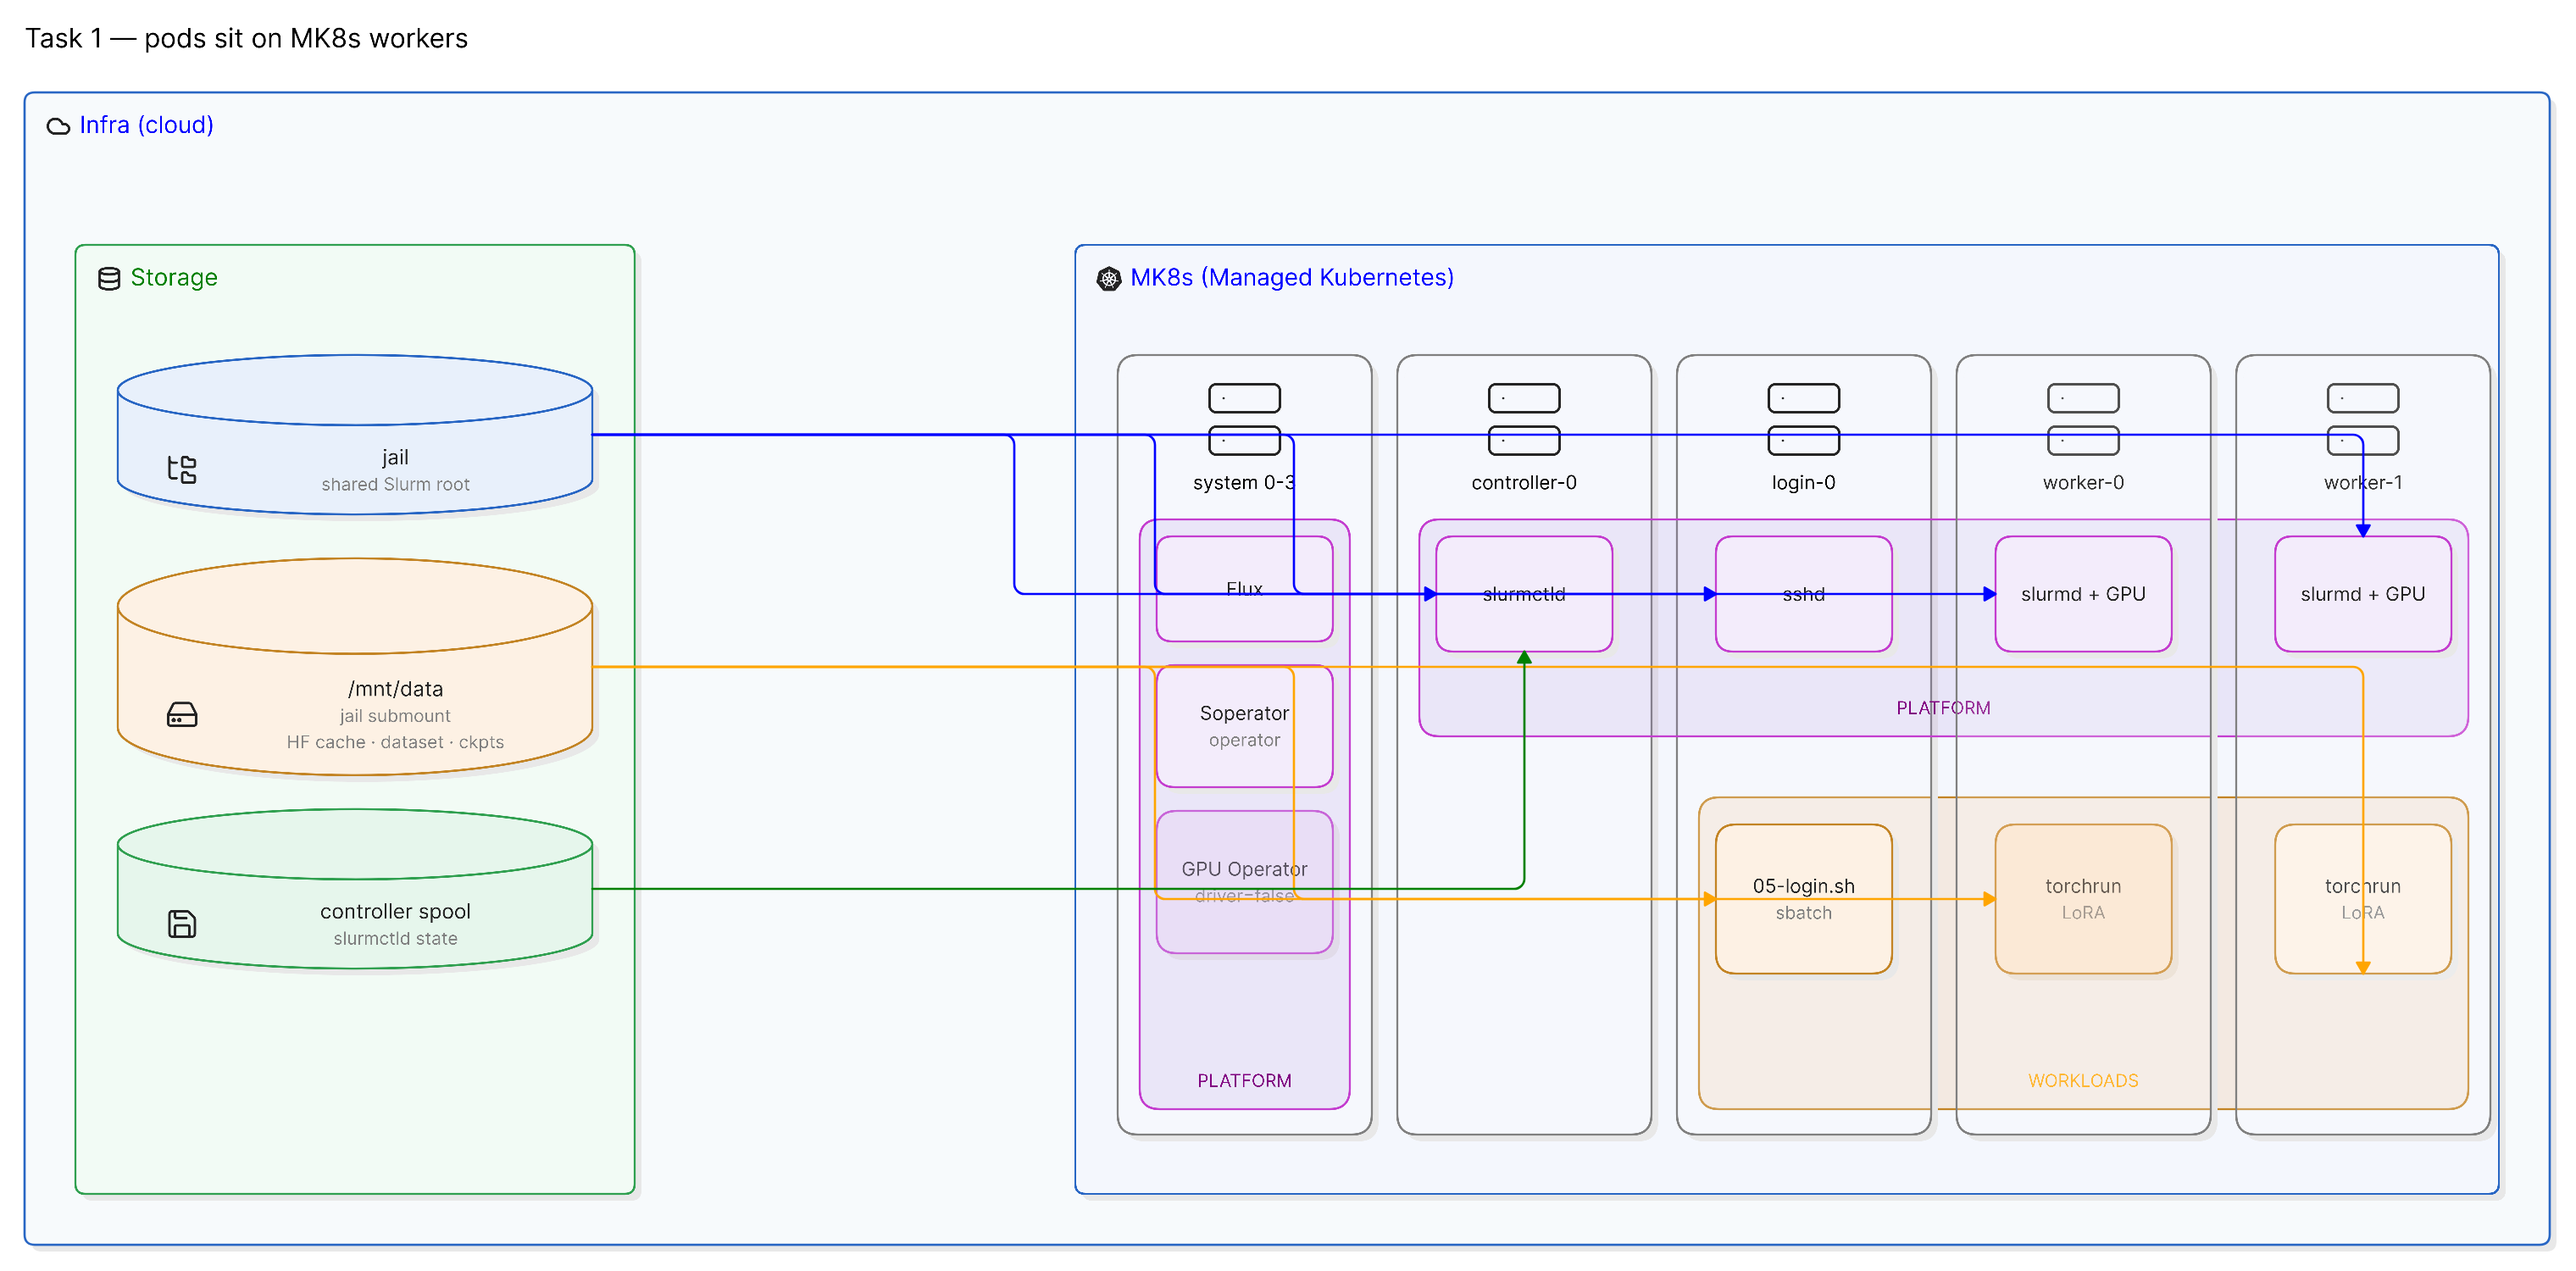
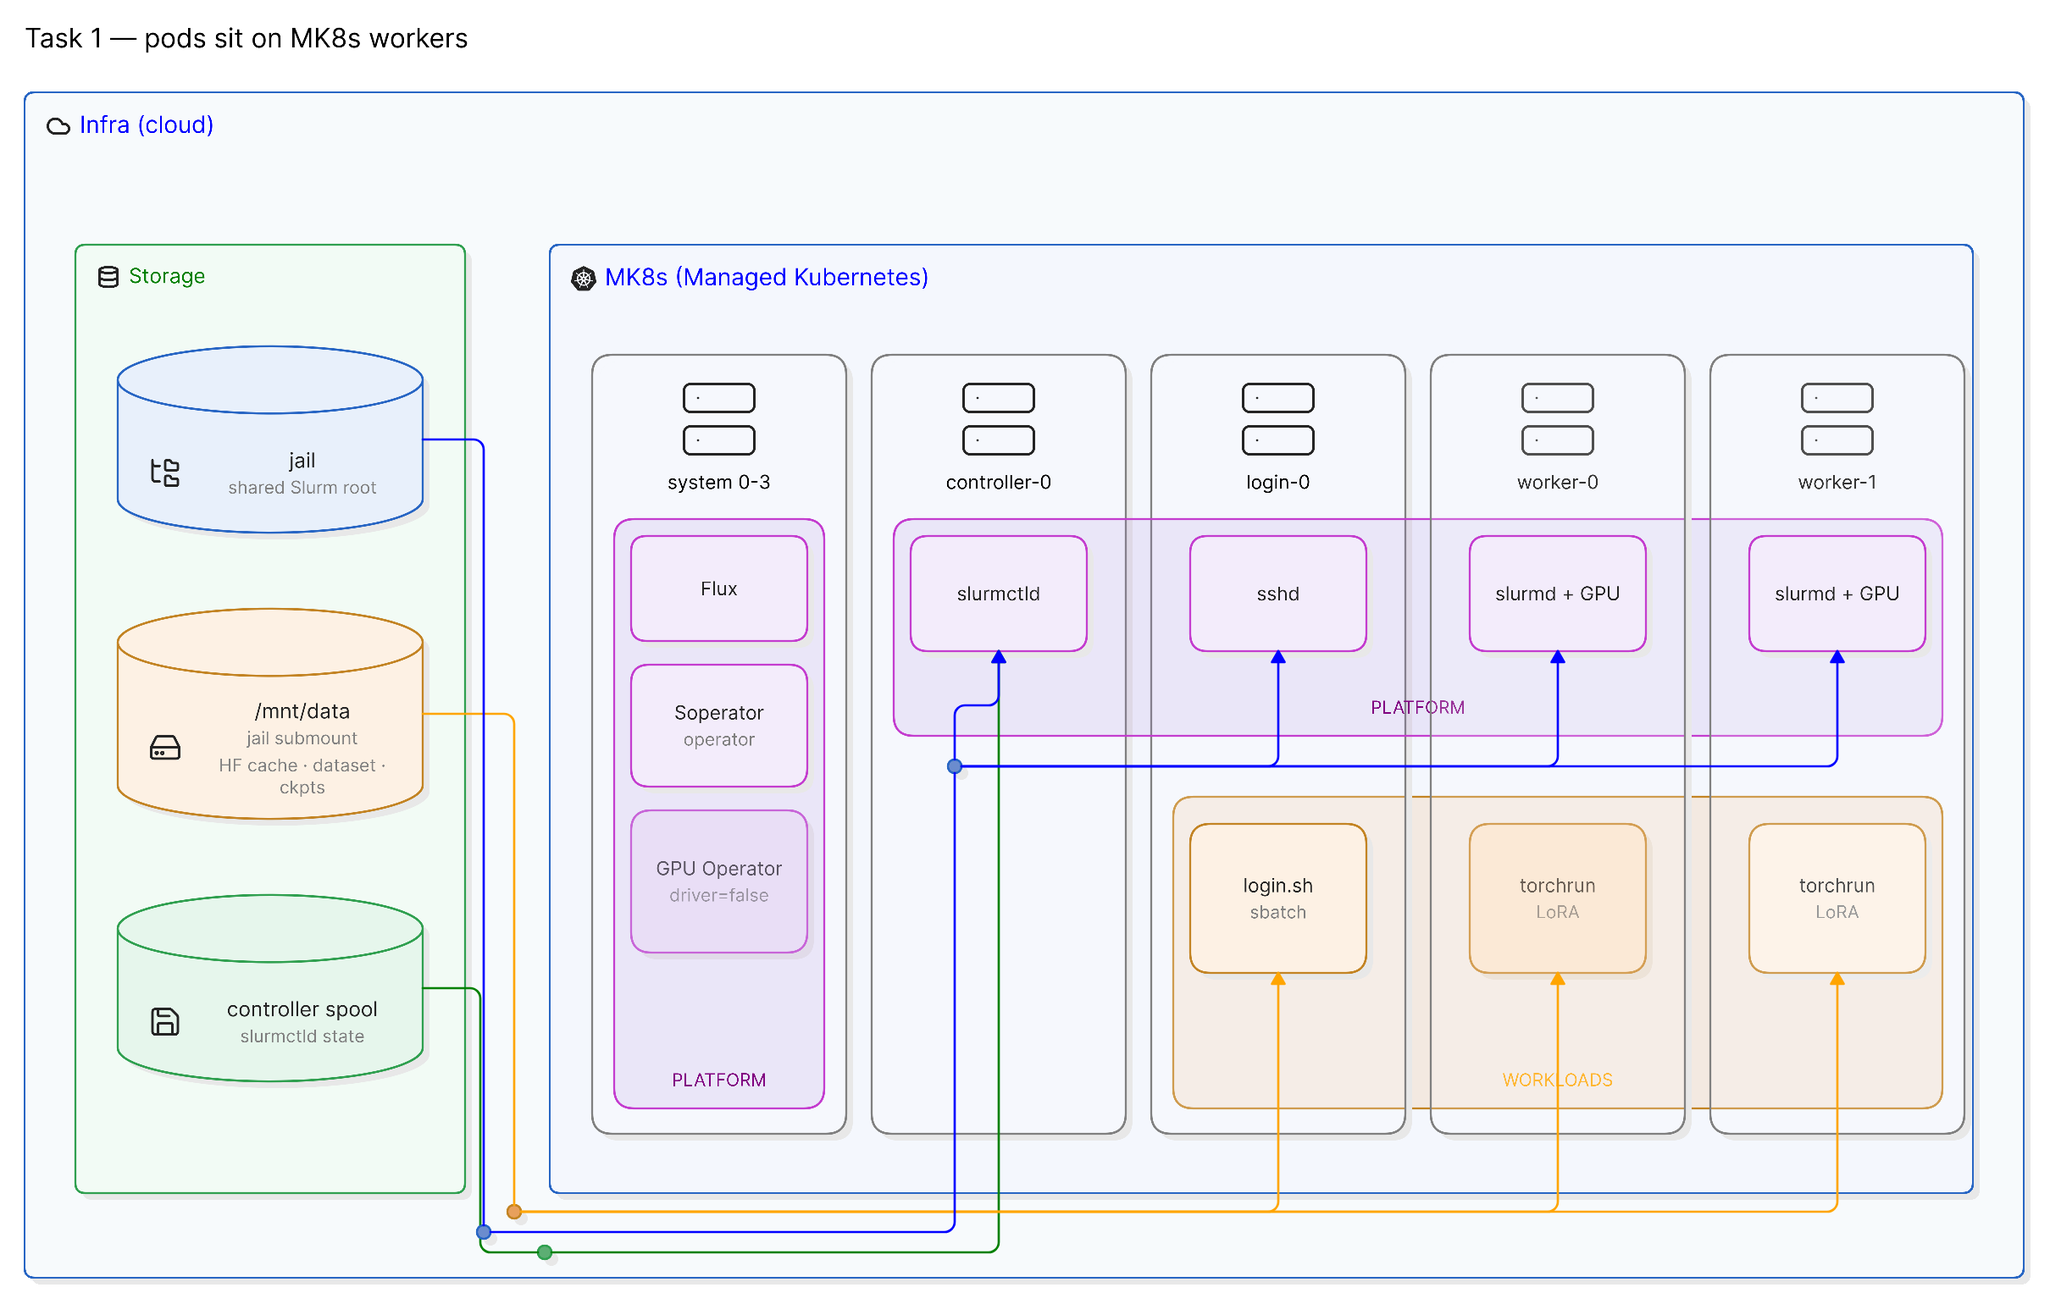
Restore the Task 1 architecture diagram and drop unused gitops and artifacts docs.

diff --git a/README.md b/README.md
@@ -72,7 +72,6 @@ InfiniBand Terraform notes: [docs/task-1/terraform-infiniband.md](docs/task-1/te
 
 ```
 docs/            # overview + task-1 … task-4
-gitops/          # notes; operators are Terraform in terraform/platform
 terraform/       # infra (cloud) + platform (operators)
 task-1/          # 00–07 runbook, train.sbatch / train.py / setup_env.sh
 task-2/          # 01-ingress, 02-serve, 03-status, 04-destroy_ingress; vLLM in task2-inference

diff --git a/docs/task-1/README.md b/docs/task-1/README.md
@@ -15,6 +15,5 @@ Talk track: [report.md](report.md) (job 73 logs + GPU screenshots).
 | [terraform-infiniband.md](terraform-infiniband.md) | 1-GPU Ethernet Terraform overlay |
 | [diagrams/](diagrams/) | Eraser source |
 | [static/](static/) | PNGs + [evidence](static/evidence/) screenshots |
-| [artifacts/](artifacts/) | Job 73 logs, Dolly LoRA adapters, live `gres.conf` |
 
 Assignment / status: [../overview/](../overview/).

diff --git a/docs/task-1/static/README.md b/docs/task-1/static/README.md
@@ -7,4 +7,4 @@ PNG exports from Eraser. Source / DSL: [`../diagrams/`](../diagrams/).
 - [`how-train-py-works.png`](how-train-py-works.png) — beginner flowchart of `train.py`
 
 Console evidence for job 73 (and the failed job 71 contrast): [`evidence/`](evidence/).  
-Logs, LoRA adapters, `gres.conf`: [`../artifacts/`](../artifacts/). Talk track: [`../report.md`](../report.md).
+Talk track: [`../report.md`](../report.md).
